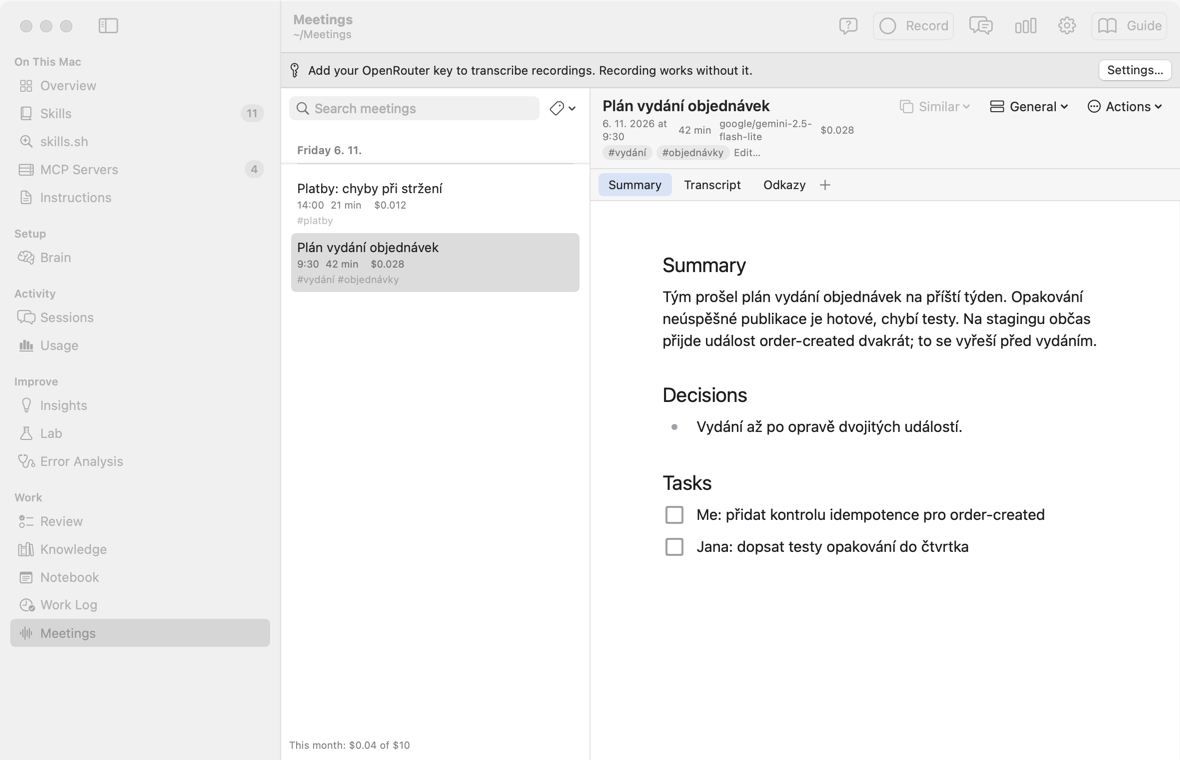
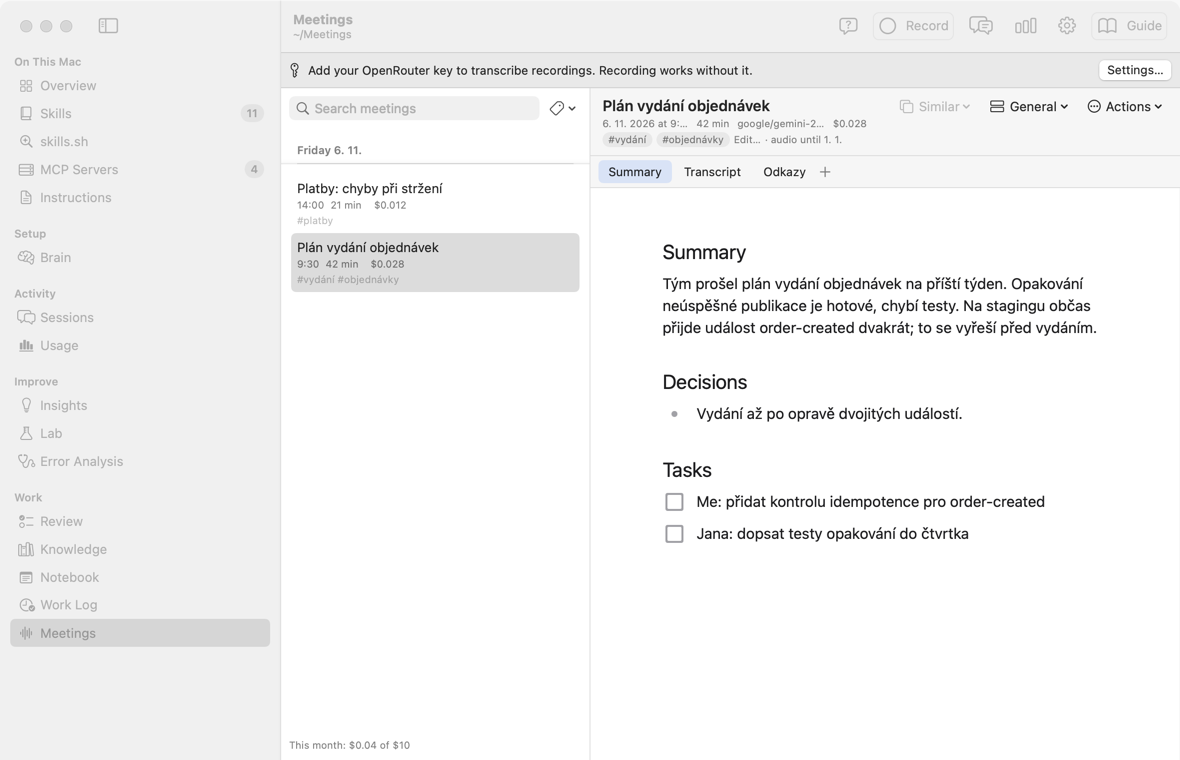
Meetings: project vocabulary for transcripts and summaries
Settings -> Vocabulary keeps the project's names, services and terms
(one per line, hints after a dash, Import... from .txt/.md/.csv). The
first 1,500 go into every transcript and summary prompt, so the model
writes them exactly instead of a word that sounds close (M27).

diff --git a/Meetings/Sources/MeetingsCore/Transcriber.swift b/Meetings/Sources/MeetingsCore/Transcriber.swift
@@ -35,8 +35,19 @@ public struct Transcriber: Sendable {
     /// The prompt of one chunk: the language hint, who can speak in this track, the spans in which
     /// the user's own microphone carried speech, and the last lines before this chunk, so the
     /// speakers keep their keys.
-    static func transcriptPrompt(spokenHint: String, length: TimeInterval, me: [TimeSpan], previous: [Segment], track: Track = .mixed) -> String {
+    /// M27: the project's words for a prompt; nil without any.
+    static func vocabularyLine(_ vocabulary: [String], for use: String) -> String? {
+        let terms = vocabulary.prefix(MeetingsSettings.vocabularyLimit)
+        guard !terms.isEmpty else { return nil }
+        return "Words of the user's project (names, services, products, terms; a dash or colon gives a hint). \(use) Never put one in where it was not said:\n" + terms.map { "- \($0)" }.joined(separator: "\n")
+    }
+
+    static func transcriptPrompt(spokenHint: String, length: TimeInterval, me: [TimeSpan], previous: [Segment], track: Track = .mixed,
+                                 vocabulary: [String] = []) -> String {
         var lines = ["Transcribe this audio (\(timestamp(length)) long). The language is most likely \(spokenHint); write each line in the language that is spoken."]
+        if let words = vocabularyLine(vocabulary, for: "When you hear one of them, or a word that sounds close and fits the meaning better than a common word, write it exactly as listed.") {
+            lines.append(words)
+        }
         switch track {
         case .mixed:
             lines.append("Speakers: \"Me\" is the user. Other people are \"S1\", \"S2\", … in the order they first speak; keep the same key for the same voice. Where two people talk at the same time, write both lines, each with its own start.")
@@ -69,7 +80,8 @@ public struct Transcriber: Sendable {
     /// whole recording).
     public func transcribe(audio: Data, format: String, length: TimeInterval, offset: TimeInterval, me: [TimeSpan], previous: [Segment],
                            track: Track = .mixed) async throws -> (segments: [Segment], completion: Completion) {
-        let prompt = Self.transcriptPrompt(spokenHint: settings.spokenHint, length: length, me: me, previous: previous, track: track)
+        let prompt = Self.transcriptPrompt(spokenHint: settings.spokenHint, length: length, me: me, previous: previous, track: track,
+                                           vocabulary: settings.vocabulary)
         let completion = try await client.complete(model: settings.model, system: Self.system(clean: settings.cleanTranscript), text: prompt, audio: (audio, format))
         let segments = try PaidFailure.parse(completion) { try Self.parseSegments(completion.text, offset: offset, length: length) }
         return (segments, completion)
@@ -158,7 +170,7 @@ public struct Transcriber: Sendable {
         }
     }
 
-    static func summaryPrompt(language: String, transcript: String, template: MeetingTemplate = MeetingTemplate.builtIn[0]) -> String {
+    static func summaryPrompt(language: String, transcript: String, template: MeetingTemplate = MeetingTemplate.builtIn[0], vocabulary: [String] = []) -> String {
         var asks = [
             "- title: a short title of the meeting (at most 8 words);",
             "- summary: 3–5 sentences: what it was about and what came out of it;",
@@ -179,7 +191,7 @@ public struct Transcriber: Sendable {
         return """
         Below is the transcript of a meeting. "Me" is the user. Write in \(language):
         \(asks.joined(separator: "\n"))
-        Use only what the transcript says.
+        Use only what the transcript says.\(vocabularyLine(vocabulary, for: "Where the transcript has a word that sounds like one of them, it is that word: write it exactly as listed.").map { "\n" + $0 } ?? "")
         Answer: \(shape)
 
         Transcript:
@@ -196,7 +208,8 @@ public struct Transcriber: Sendable {
         let template = settings.template(meeting.template)
         let completion = try await client.complete(model: settings.summaryModel ?? settings.model,
                                                    system: "You write short, faithful meeting notes. Answer with one JSON object and nothing else.",
-                                                   text: Self.summaryPrompt(language: settings.language, transcript: Self.plainTranscript(meeting), template: template))
+                                                   text: Self.summaryPrompt(language: settings.language, transcript: Self.plainTranscript(meeting), template: template,
+                                                                            vocabulary: settings.vocabulary))
         return (try PaidFailure.parse(completion) { try Self.parseSummary(completion.text) }, completion)
     }
 

diff --git a/Meetings/Sources/MeetingsUI/MeetingsSettingsView.swift b/Meetings/Sources/MeetingsUI/MeetingsSettingsView.swift
@@ -72,6 +72,9 @@ struct MeetingsSettingsView: View {
                     .font(.caption)
                     .foregroundStyle(.secondary)
                 }
+                Section("Vocabulary") {
+                    VocabularyEditor(model: model)
+                }
                 Section("Language") {
                     Picker("Summary and tasks", selection: Binding(get: { model.settings.language }, set: { value in model.update { $0.language = value } })) {
                         ForEach(languages, id: \.self) { Text($0).tag($0) }
@@ -222,5 +225,54 @@ struct OwnTemplateRow: View {
                         if let i = settings.customTemplates.firstIndex(where: { $0.id == template.id }) { settings.customTemplates[i][keyPath: field] = value }
                     }
                 })
+    }
+}
+
+/// M27: the project's words, one per line; Import… reads a text, Markdown or CSV file.
+struct VocabularyEditor: View {
+    let model: MeetingsModel
+    @State private var text = ""
+    @State private var problem: String?
+
+    var body: some View {
+        VStack(alignment: .leading, spacing: 6) {
+            TextEditor(text: $text)
+                .font(.callout.monospaced())
+                .frame(height: 110)
+                .overlay(RoundedRectangle(cornerRadius: 4).stroke(.quaternary))
+                .onChange(of: text) { _, new in
+                    let terms = MeetingsSettings.vocabulary(from: new)
+                    if terms != model.settings.vocabulary { model.update { $0.vocabulary = terms } }
+                }
+            HStack {
+                let count = model.settings.vocabulary.count
+                Text("\(count) term\(count == 1 ? "" : "s")" + (count > MeetingsSettings.vocabularyLimit ? ", the first \(MeetingsSettings.vocabularyLimit) are sent" : ""))
+                Spacer()
+                Button("Import…", action: importFile)
+                    .help("Add the words of a .txt, .md or .csv file: one per line or separated by commas")
+                Button("Clear") { text = "" }.disabled(text.isEmpty)
+            }
+            .font(.caption)
+            if let problem { Label(problem, systemImage: "exclamationmark.triangle").foregroundStyle(.orange).font(.caption) }
+            Text("Names, services, products and terms of your project, one per line; \"Kafka — message broker\" adds a hint. They go with every transcription and summary, so the model writes them right instead of a word that sounds close. Takes effect at the next transcription; Transcribe Again uses them for an older meeting.")
+                .font(.caption).foregroundStyle(.secondary)
+                .fixedSize(horizontal: false, vertical: true)
+        }
+        .onAppear { text = model.settings.vocabulary.joined(separator: "\n") }
+    }
+
+    private func importFile() {
+        let panel = NSOpenPanel()
+        panel.allowedContentTypes = [.plainText, .commaSeparatedText, .init(filenameExtension: "md") ?? .plainText, .init(filenameExtension: "tsv") ?? .plainText]
+        panel.prompt = "Import"
+        guard panel.runModal() == .OK, let url = panel.url else { return }
+        do {
+            let added = MeetingsSettings.vocabulary(from: try String(contentsOf: url, encoding: .utf8))
+            let merged = MeetingsSettings.vocabulary(from: (model.settings.vocabulary + added).joined(separator: "\n"))
+            text = merged.joined(separator: "\n")
+            problem = nil
+        } catch {
+            problem = "Could not read \(url.lastPathComponent): \(error.localizedDescription)"
+        }
     }
 }

diff --git a/Meetings/Sources/MeetingsCore/MeetingsSettings.swift b/Meetings/Sources/MeetingsCore/MeetingsSettings.swift
@@ -28,6 +28,9 @@ public struct MeetingsSettings: Codable, Equatable, Sendable {
     public var customTemplates: [MeetingTemplate] = []
     /// M22: a clean transcript (no filler words, stutters, repeats) or word for word.
     public var cleanTranscript: Bool = true
+    /// M27: the project's own words (names, services, products, terms), one per entry, so the
+    /// model writes them right instead of a word that sounds close.
+    public var vocabulary: [String] = []
 
     public enum TrackMode: String, Codable, Sendable, CaseIterable {
         /// One mixed track (1×).
@@ -48,6 +51,30 @@ public struct MeetingsSettings: Codable, Equatable, Sendable {
     }
 
     public init() {}
+
+    /// At most this many terms go into a prompt (about 6,000 tokens at most).
+    public static let vocabularyLimit = 1_500
+
+    /// The terms of a text or a file: one per line, or separated by commas or semicolons; a line
+    /// may be `term — hint` or `term: hint` (the hint stays, it helps the model). Lines starting
+    /// with `#` and repeats (case ignored) are left out.
+    public static func vocabulary(from text: String) -> [String] {
+        var seen = Set<String>()
+        var terms: [String] = []
+        for line in text.split(whereSeparator: \.isNewline) {
+            let trimmed = line.trimmingCharacters(in: .whitespaces)
+            guard !trimmed.isEmpty, !trimmed.hasPrefix("#") else { continue }
+            // A line with a hint is one term; a plain line may list several.
+            let hasHint = trimmed.contains(" — ") || trimmed.contains(" - ") || trimmed.contains(": ")
+            let parts = hasHint ? [Substring(trimmed)] : trimmed.split(whereSeparator: { $0 == "," || $0 == ";" || $0 == "\t" })
+            for part in parts {
+                let term = part.trimmingCharacters(in: CharacterSet.whitespaces.union(CharacterSet(charactersIn: "\"'-*•")))
+                guard !term.isEmpty, term.count <= 200, seen.insert(term.lowercased()).inserted else { continue }
+                terms.append(term)
+            }
+        }
+        return terms
+    }
 
     public var templates: [MeetingTemplate] { MeetingTemplate.builtIn + customTemplates }
 
@@ -89,5 +116,6 @@ public struct MeetingsSettings: Codable, Equatable, Sendable {
         defaultTemplate = try c.decodeIfPresent(String.self, forKey: .defaultTemplate) ?? d.defaultTemplate
         customTemplates = (try? c.decodeIfPresent([MeetingTemplate].self, forKey: .customTemplates)) ?? d.customTemplates
         cleanTranscript = try c.decodeIfPresent(Bool.self, forKey: .cleanTranscript) ?? d.cleanTranscript
+        vocabulary = (try? c.decodeIfPresent([String].self, forKey: .vocabulary)) ?? d.vocabulary
     }
 }

diff --git a/Meetings/Tests/MeetingsCoreTests/MeetingsTests.swift b/Meetings/Tests/MeetingsCoreTests/MeetingsTests.swift
@@ -1075,3 +1075,41 @@ final class Closed: @unchecked Sendable {
         #expect(store.pieces(again.id).count == 1)
     }
 }
+
+@Suite struct VocabularyTests {
+    @Test func parsesLinesCommasHintsAndRepeats() {
+        let text = """
+        # services
+        orders-api, Billing; kafka
+        - Kafka
+        Rohlik — the client
+        idempotence: making a call twice safe
+
+        "Jana Nováková"
+        """
+        #expect(MeetingsSettings.vocabulary(from: text) == ["orders-api", "Billing", "kafka", "Rohlik — the client", "idempotence: making a call twice safe", "Jana Nováková"])
+        #expect(MeetingsSettings.vocabulary(from: "").isEmpty)
+    }
+
+    @Test func termsGoIntoTranscriptAndSummaryPrompts() async throws {
+        let store = TempRoot().store
+        let meeting = try ProcessorTests().meetingWithPieces(store, count: 1)
+        var settings = MeetingsSettings()
+        settings.vocabulary = ["orders-api", "Rohlík"]
+        let server = FakeServer([
+            (200, chat(#"{"segments":[{"start":"00:01","speaker":"Me","text":"orders-api"}]}"#)),
+            (200, chat(#"{"title":"T","summary":"S.","decisions":[],"tasks":[]}"#)),
+        ])
+        _ = try await MeetingProcessor(store: store, settings: settings, client: server.client).run(meeting.id)
+        for i in 0..<2 {
+            let text = ((server.body(i)["messages"] as? [[String: Any]])?.last?["content"] as? [[String: Any]])?.first?["text"] as? String ?? ""
+            #expect(text.contains("Words of the user's project") && text.contains("- orders-api\n- Rohlík"))
+        }
+        #expect(!Transcriber.transcriptPrompt(spokenHint: "Czech", length: 10, me: [], previous: []).contains("Words of the user's project"))
+        let many = (1...2_000).map { "term\($0)" }
+        #expect(Transcriber.vocabularyLine(many, for: "")?.contains("term1500\n") == false)
+        #expect(Transcriber.vocabularyLine(many, for: "")?.hasSuffix("- term1500") == true)
+        let old = try JSONDecoder().decode(MeetingsSettings.self, from: Data(#"{"model":"m"}"#.utf8))
+        #expect(old.vocabulary.isEmpty)
+    }
+}

diff --git a/docs/design/meetings.md b/docs/design/meetings.md
@@ -60,6 +60,7 @@ Not a meeting bot that joins the call, not live captions, not recording all day.
 | M24 | Ask, similar | Ask… opens a chat over the meetings. Scope: this meeting, last 7 or 30 days, all, optionally one tag. Today's date goes first. Each meeting in scope goes in as `[n]` with its date, title, tags and summary; then transcripts, best keyword match first (also those without a match), while a budget of 300,000 characters lasts (this meeting's scope always has its transcript). One call to the summary model; the answer is in the question's language and cites `[n]`, which become links to the meetings. A follow-up carries the earlier questions and answers; another scope or tag starts a new chat. A paid call whose answer cannot be read still counts its cost. Each call's date, model, tokens and cost (not the text) go to `<root>/.asks.jsonl`; they count in the monthly limit and show in Costs as questions. Similar meetings: up to 5, by word overlap (TF-IDF) of title, tags and summary, local, no model |
 | M25 | AKit links | The package still has no AKit dependency: the host passes `MeetingsLinks` (closures); `Meetings.app` passes none and the menu is hidden. AKit's links: **Add Tasks to Notebook…** (the summary's open tasks, Me's checked, a Notebook tab; each `- [ ] task — title, date` under today's heading); **Add to Work Log** (one `#meeting` line at the meeting's start, the title as text, the summary's first sentences as the entry's summary; marked in `meeting.json` `exports`; the item then reads Add to Work Log Again, so a second line is a choice); **Propose to Knowledge…** (one text call over the summary and transcript with the base's note ids and titles; facts about services, events, repositories and owners become note proposals in the base's Inbox, never committed; the user accepts them on Knowledge → Inbox) |
 | M26 | Retries, audio kept | Asked by the user 2026-11-06: a 429 must not cost the recording. Every OpenRouter call is tried again up to 3 times after 5, 20 and 60 s (longer when the answer has `Retry-After`, at most 2 min) on 408, 429, 5xx, a 200 that carries such an error, and a lost connection; other codes (400, 401, 402) fail at once. Still failing: the meeting is `failed` with Try Again, the done chunks kept. The 14-day Trash rule (M7) now takes only the audio of a done meeting whose transcript covers every piece; failed, waiting and recording meetings keep theirs. The check runs at start and every 6 hours while the app is open. The header shows "audio until <day>" or "audio kept until transcribed" |
+| M27 | Vocabulary | Asked by the user 2026-11-06: the project's own words (names, services, products, terms) must not turn into words that sound close. Settings → Vocabulary: one term per line (a line may list several with commas, or carry a hint after " — " or ": "), Import… adds a .txt, .md or .csv file, repeats and `#` lines are left out. The first 1,500 terms go into every transcript prompt ("when you hear one, or a word that sounds close and fits the meaning, write it exactly as listed; never put one in where it was not said") and into the summary prompt. No extra call; Transcribe Again applies a new list to an older meeting |
 | M17 | Tabs | Asked by the user the same day: a meeting is not "a recording" but its tabs. Summary first (summary, decisions, tasks), then Transcript, then the user's own tabs: plain Markdown pages (notes, links), added, renamed and removed like the Notebook's tabs. Own tabs are files `tabs/<name>.md` in the meeting's folder, never sent to a model. Summary is editable too (its section of `meeting.md`); Transcript is read only. The editor comes from the host app: AKit passes its Crepe editor (the Notebook's), `Meetings.app` a plain Markdown text editor, so the package needs no web bundle |
 
 ## Pages

diff --git a/docs/guides/meetings.ru.md b/docs/guides/meetings.ru.md
@@ -181,6 +181,7 @@
 - **Key** — ключ OpenRouter. Создайте его на openrouter.ai/keys, вставьте и нажмите **Save Key**. Ключ хранится в Keychain, на экране его не видно.
 - **Transcription** — модель для звука. Список приходит из API OpenRouter: только модели, которые принимают аудио, самые дешёвые сверху. У каждой — примерная цена часа. ★ — рекомендуемые: дешёвые и хорошо понимают чешский. **Reload** запрашивает список заново.
 - **Summary** — модель для краткого содержания. По умолчанию та же.
+- **Vocabulary** — словарь проекта: имена, сервисы, продукты, термины, по одному на строку. Модель пишет эти слова точно так, а не похожее по звучанию. Строка `Kafka — message broker` даёт подсказку. **Import…** добавляет слова из файла `.txt`, `.md` или `.csv` (по строкам или через запятую). Словарь уходит с каждой расшифровкой и Summary; для старой встречи — **Transcribe Again**.
 - **Summary and tasks** — язык Summary и задач, по умолчанию Czech.
 - **Spoken language** — подсказка модели, на каком языке говорят.
 - **Template of a new meeting**, **Add Template** — шаблон новой встречи и свои шаблоны (см. «Шаблоны»).
@@ -190,7 +191,7 @@
 - **Folder** — папка встреч, по умолчанию `~/Meetings`.
 - **Monthly limit, $** — лимит в месяц, по умолчанию $10. Когда он достигнут, новые расшифровки ждут, а запись работает.
 
-![Окно Meetings Settings: ключ OpenRouter, модели Transcription и Summary с ценой часа, язык, Echo cancellation, папка, месячный лимит](images/meetings-settings.png)
+![Окно Meetings Settings: ключ OpenRouter, модели Transcription и Summary с ценой часа, словарь Vocabulary из шести слов, язык, Echo cancellation, папка, месячный лимит](images/meetings-settings.png)
 
 ## Расходы
 <!-- section: costs -->
